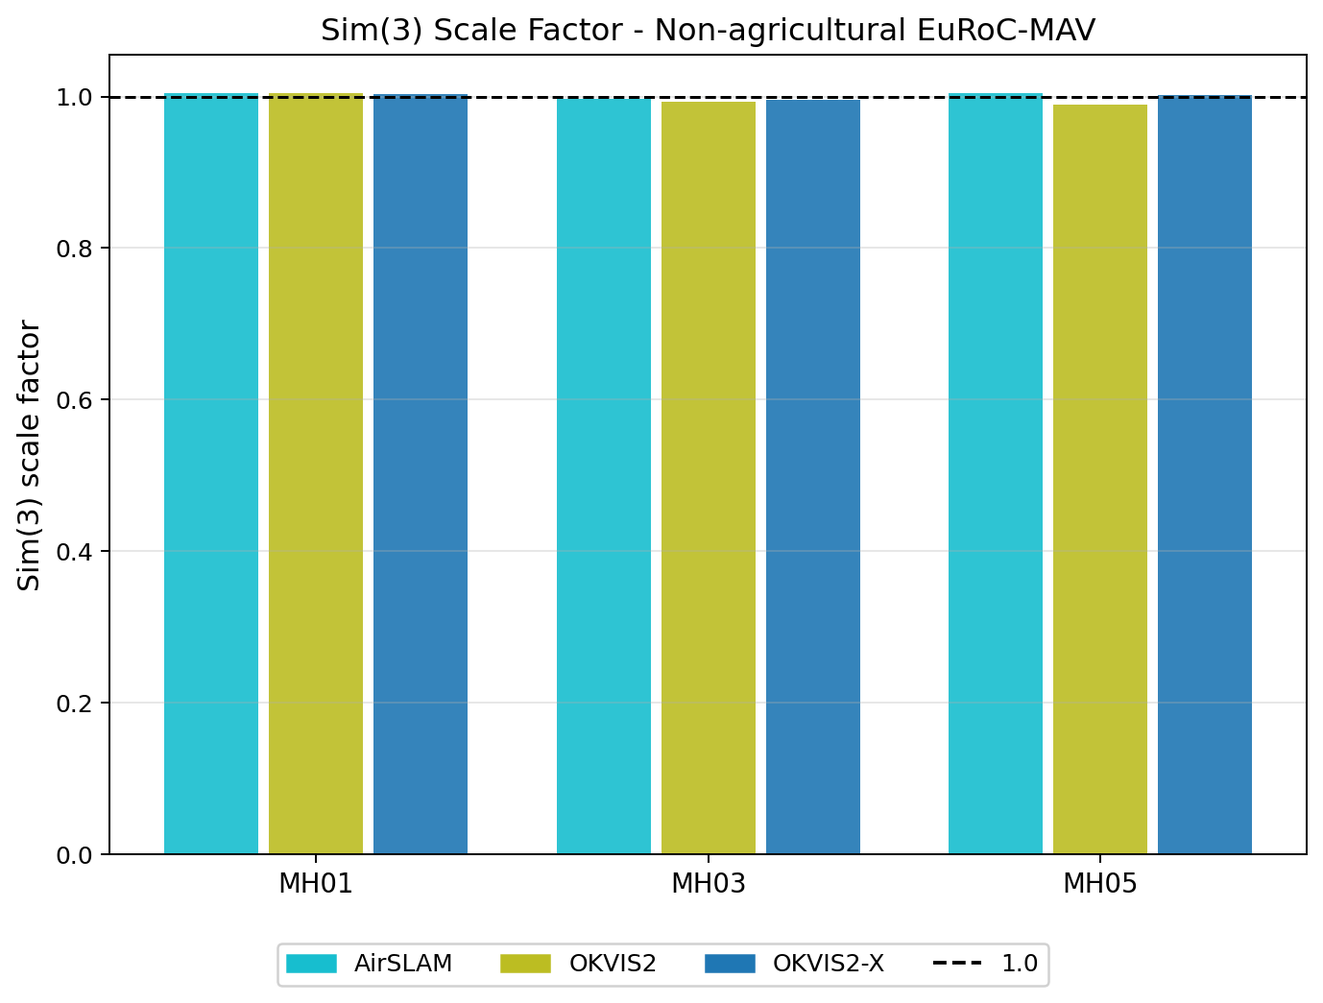
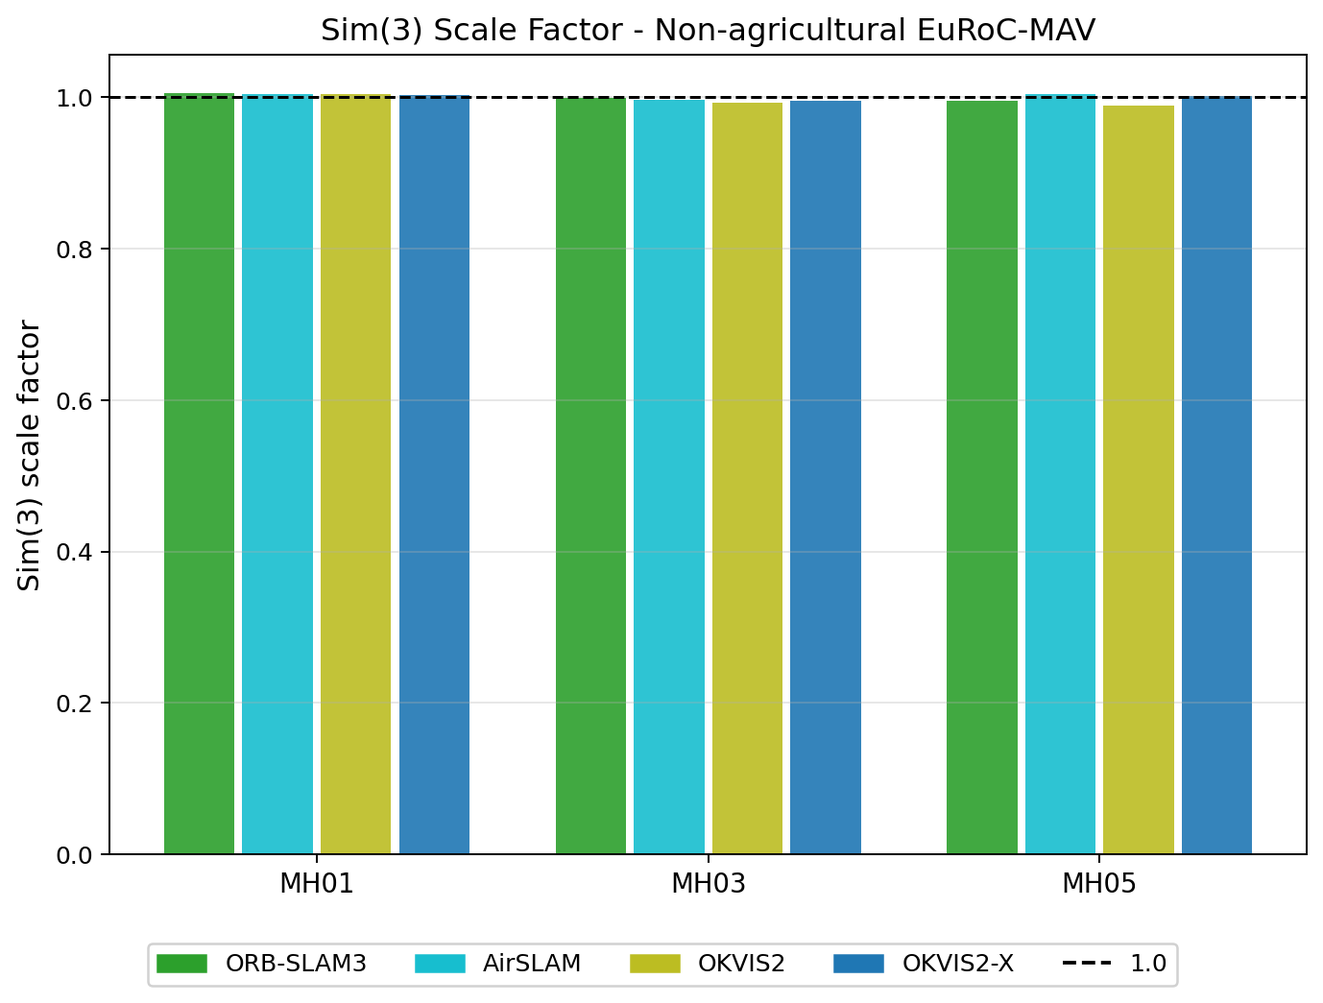
Update docs and report draft for ORB-SLAM3 VIO-LC results

diff --git a/docs/report-draft.md b/docs/report-draft.md
@@ -7,12 +7,10 @@
 ## Summary
 
 Since the last report (24.05.26: 5 algorithms, stereo-VO only, 3 datasets) the benchmark has grown to
-**15 algorithms, 5 operating modes (VO / VO-LC / VIO / VIO-LC / GNSS-VIO), 4 datasets — 210 evaluated
-configurations, 256 individual runs**, including our own RTK-referenced ZED2i field dataset. The headline
-outcome is not a ranking: on the EuRoC reference every method works (0.03–0.2 m), while **agriculture
-breaks three assumptions visual-inertial SLAM depends on** — feature distinctiveness, place uniqueness,
-and inertial excitation — and each algorithm's agricultural result is governed by which assumption its
-design leans on and how it fails when that assumption breaks.
+**15 algorithms, 5 operating modes (VO / VO-LC / VIO / VIO-LC / GNSS-VIO), 4 datasets — 213 evaluated
+configurations, 259 individual runs**, including our own RTK-referenced ZED2i field dataset. On the
+EuRoC reference every method performs as expected (0.03–0.2 m); the differences between algorithms
+appear only on the agricultural sequences.
 
 **Key findings**
 
@@ -71,9 +69,19 @@ installed but **hardware-blocked** (OOM on the 12 GB GPU).
 - One machine (i9-14900HX / RTX 4080 12 GB) unless noted; a subset of earlier runs came from a second
   machine (provenance stamped in each `run_eval.json` where available).
 
-**Caveat legend** (used in all tables): **‡** non-deterministic, N=3 median · **(NN %)** coverage when
-< 95 % (partial path) · **✗** scale collapse (Sim3 scale ≈ 0) · **†** preliminary (pre-extrinsic-fix)
-· **—** not run / failed · `(n)` accepted loop closures.
+**Table legend.** All table values are **ATE Sim3 RMSE in metres** (median where N=3); Sim3 alignment
+absorbs global scale error — see the scale-factor and SE3 columns in the full CSVs for scale-aware error.
+
+| Symbol | Meaning |
+|---|---|
+| **bold** | lowest ATE among **full-coverage stereo** methods in that column (partial-coverage cells and monocular DPVO excluded from winners) |
+| **‡** | non-deterministic cell — value is the **N=3 median**; run-to-run spread up to ~4× (§3.4) |
+| **(NN %)** | trajectory coverage when **< 95 %** — the method lost tracking and is scored only on the sub-path it completed; **not comparable** to full-coverage values |
+| **✗** | scale collapse (Sim3 scale ≈ 0; SE3 error diverges — the Sim3 value is shown) |
+| **†** | preliminary — predates the camera-IMU extrinsic fix; scheduled for re-run |
+| `(n)` | accepted loop closures (LC tables only); a high count on repetitive scenes signals perceptual aliasing, not benefit |
+| **—** | not run / failed (no usable trajectory) |
+| *(mono)* | monocular method — ATE is up-to-scale trajectory *shape*, not metric accuracy |
 
 ---
 
@@ -85,36 +93,49 @@ installed but **hardware-blocked** (OOM on the 12 GB GPU).
 
 ![Whole-benchmark VIO accuracy](../figures/fig_master_vio_heatmap.png)
 
-The two heatmaps carry the thesis: the EuRoC block is uniformly green for every method (the pipeline and
-configurations are sound), the agricultural block is where methods diverge by orders of magnitude, and
-the ZED2i VIO column shows the weak-excitation collapse (✗) that its VO column does not have.
+The EuRoC block is uniformly green for every method, which confirms the configurations and the
+evaluation pipeline are correct. The agricultural block is where the methods differ by orders of
+magnitude. In the VIO heatmap the ZED2i column shows the scale collapse (✗) that the same column in the
+VO heatmap does not have.
 
 ### 2.2 Visual Odometry (VO)
 
 | Algorithm | seq1 | seq5 | str02 | str03 | MH01 | MH03 | MH05 | zed2i |
 |---|---|---|---|---|---|---|---|---|
-| ORB-SLAM3 | 3.00 (58 %)‡ | 6.93 (52 %)‡ | 1.38 (47 %)‡ | 0.22‡ | **0.036** | 0.046 | **0.047** | **0.256** |
-| OV2SLAM | **7.24** | 8.05 | 5.76 | 0.35 | 0.058 | **0.042** | 0.099 | 0.348 |
-| DPVO (mono) | 4.93 | **3.92** | 14.59 | 1.82 | 0.122 | 0.134 | 0.121 | 1.431 |
-| Basalt | 14.09 | 15.05 | **2.10** | **0.28** | 0.057 | 0.137 | 0.182 | 0.446 |
-| OKVIS2 | 20.03 | 17.48 | 1.69 | 0.37 | 0.078 | 0.133 | 0.153 | 3.372 |
+| ORB-SLAM3 | 3.00 (58 %)‡ | 6.93 (52 %)‡ | 1.38 (47 %)‡ | **0.22**‡ | **0.036** | 0.046 | **0.047** | **0.256** |
+| OV2SLAM | **7.24** | **8.05** | 5.76 | 0.35 | 0.058 | **0.042** | 0.099 | 0.348 |
+| DPVO (mono) | 4.93 | 3.92 | 14.59 | 1.82 | 0.122 | 0.134 | 0.121 | 1.431 |
+| Basalt | 14.09 | 15.05 | 2.10 | 0.28 | 0.057 | 0.137 | 0.182 | 0.446 |
+| OKVIS2 | 20.03 | 17.48 | **1.69** | 0.37 | 0.078 | 0.133 | 0.153 | 3.372 |
 | OKVIS2-X | 18.02 | 14.91 | 1.97 | 0.68 | 0.132 | 0.169 | 0.153 | 1.436 |
 | MAC-VO | 13.52 | 19.38 | 10.01 | 0.51 | 0.198 | 0.340 | 0.470 | — |
 | AirSLAM | 9.89 | 12.11 | 19.77 | 3.74 | 0.111 | 0.143 | 0.297 | 3.866 |
 
-*ATE Sim3 (m); bold = best full-coverage result per column. ORB-SLAM3's low agricultural values are
-partial-path artifacts (§3.2) — among full-coverage methods OV2SLAM/DPVO lead outdoors, Basalt indoors.
+*ATE Sim3 (m); **bold = lowest ATE among full-coverage stereo methods.** Two categories are excluded
+from "best": partial-coverage cells (scored over a shorter sub-path) and monocular DPVO. DPVO has the
+lowest Sim3 values on Rosario (4.93 / 3.92 m), but Sim3 alignment rescales its trajectory using the
+ground truth first — its scale factor is 2.5 and its uncorrected SE3 error is 28.9 / 30.5 m against
+7.24 / 8.05 m for OV2SLAM, whose SE3 equals its Sim3 because it recovers metric scale itself.
 The ORB-SLAM3 "VO" baseline was re-run with `loopClosing: 0` after we found the default config silently
 left LC enabled (str03 went 0.10 → 0.22 m once genuinely LC-off).*
+
+**Observations.** ORB-SLAM3 loses tracking on the outdoor sequences and returns 47–58 % of the
+trajectory, so its agricultural values are computed over a shorter sub-path and are not comparable to
+the rest of the column. Among the methods that complete the sequences, OV2SLAM is the best outdoors
+(7.24 m on seq1, 8.05 m on seq5) and Basalt the best indoors (0.28 m on str03). Basalt drifts in scale
+on the long outdoor runs (scale 0.79–0.93). DPVO has lower Sim3 values on Rosario (3.92–4.93 m), but it
+is monocular and its trajectory is 2.5× the wrong size — after Sim3 removes that scale error using the
+ground truth. Its uncorrected SE3 error is 29–31 m, four times OV2SLAM's. MAC-VO is accurate but runs at
+1–2 fps; AirSLAM is the weakest outdoors.
 
 ### 2.3 VO + Loop Closure (VO-LC)
 
 | Algorithm (LC type) | seq1 | seq5 | str02 | str03 | MH01 | MH03 | MH05 | zed2i |
 |---|---|---|---|---|---|---|---|---|
-| ORB-SLAM3 (DBoW) | 1.52 (4) | 15.55 (0) | 0.72 (0, 53 %) | 0.10 (1) | 0.048 (0) | 0.043 (0) | 0.044 (1) | **0.202** (0) |
-| OKVIS2 (DBoW) | 18.87 (76) | 16.26 (0) | 1.39 (7) | 0.12 (54) | **0.021** (36) | **0.023** (44) | 0.057 (18) | 0.75 (1261, 93 %) |
-| OKVIS2-X (DBoW) | 19.40 (30) | 13.91 (1) | 1.22 (7) | 2.53 (7) | 0.018 (37) | 0.030 (37) | 0.061 (20) | 0.29 (357, 78 %) |
-| OV2SLAM (iBoW) | **3.86** | **2.25** | 23.50 | **0.10** | 0.048 | 0.047 | 0.063 | 0.314 |
+| ORB-SLAM3 (DBoW) | **1.52** (4) | 15.55 (0, 73 %) | 0.72 (0, 53 %) | 0.10 (1) | 0.048 (0) | 0.043 (0) | **0.044** (1) | **0.202** (0) |
+| OKVIS2 (DBoW) | 18.87 (76) | 16.26 (0) | 1.39 (7) | 0.12 (54) | 0.021 (36) | **0.023** (44) | 0.057 (18) | 0.75 (1261, 93 %) |
+| OKVIS2-X (DBoW) | 19.40 (30) | 13.91 (1) | **1.22** (7) | 2.53 (7) | **0.018** (37) | 0.030 (37) | 0.061 (20) | 0.29 (357, 78 %) |
+| OV2SLAM (iBoW) | 3.86 | **2.25** | 23.50 | **0.10** | 0.048 | 0.047 | 0.063 | 0.314 |
 | DPV-SLAM (proximity) | 9.32 | 6.48 | 22.00 | 8.83 | 0.047 | 0.042 | 0.058 | 2.364 |
 
 *`(n)` = accepted loop closures. DPV-SLAM's proximity closer and OV2SLAM's iBoW count are not surfaced by
@@ -122,12 +143,19 @@ their logs. High counts on repetitive scenes (OKVIS2 zed2i: 1261 ≈ 27/1000 fra
 look-alike matches) are a perceptual-aliasing signature, not a benefit measure — OKVIS2 fired 54 closures
 on str03 and improved, OKVIS2-X fired 7 and regressed +271 %.*
 
+**Observations.** The effect of loop closure depends on how candidates are matched. Proximity-based
+closure (DPV-SLAM) accepts false matches between identical rows and makes every agricultural sequence
+worse. Verified closure (iBoW, DBoW) usually helps — 18–73 % on EuRoC, and 3.00 → 1.52 m on Rosario
+seq1 where 4 closures were accepted on a genuine revisit — but it is not reliable: OV2SLAM degraded by
+308 % on str02 and OKVIS2-X by 271 % on str03, each from a single false match on a short, repetitive
+loop. Where no revisit exists (seq5) no closures fire and LC has no effect.
+
 ### 2.4 Visual-Inertial Odometry (VIO)
 
 | Algorithm | seq1 | seq5 | str02 | str03 | MH01 | MH03 | MH05 | zed2i |
 |---|---|---|---|---|---|---|---|---|
 | ORB-SLAM3 | 4.70 | **2.29** | **1.48** | 0.40 | **0.025** | **0.030** | 0.048 | — ✗ failed |
-| Basalt | **3.00** | 4.74 | 2.49 | **0.19** | 0.035 | 0.046 | 0.111 | 9.14 |
+| Basalt | 3.00 | 4.74 | 2.49 | **0.19** | 0.035 | 0.046 | **0.111** | 9.14 |
 | OKVIS2 | 18.89 | 20.29 | 2.15 | 0.40 | 0.054 | 0.098 | 0.151 | 17.67 (65 %) ✗ |
 | OKVIS2-X | 19.33 | 20.40 | 2.13 | 0.34 | 0.046 | 0.072 | 0.144 | 18.32 (60 %) ✗ |
 | OpenVINS | **2.32** | 10.76 | 2.24 | 0.43 | 0.058 | 0.126 | 0.205 | 5.33 (15 %) ✗ |
@@ -137,28 +165,47 @@ on str03 and improved, OKVIS2-X fired 7 and regressed +271 %.*
 *On ZED2i every VIO lands ≥ 3.7 m (the tightly-coupled filters collapse, ✗) against VO at ≤ 0.45 m; on
 Rosario the picture inverts — see §3.1.*
 
+**Observations.** The IMU helps on Rosario and HortiMulti and hurts on our ZED2i sequence. On ZED2i all
+VIO configurations land at 3.7–18 m against 0.26–0.45 m for stereo VO, and OKVIS2, OKVIS2-X and
+OpenVINS scale-collapse (Sim3 scale ≈ 0); ORB-SLAM3 fails to produce a trajectory at all. The likely
+cause is insufficient inertial excitation — the robot drives slowly and almost straight. On Rosario the
+same IMU raises ORB-SLAM3's coverage from 43 % to 99 % and corrects Basalt's scale drift
+(14 m at scale 0.80 in VO → 3.00 m at scale 1.02 in VIO). OKVIS2 and OKVIS2-X remain poor on Rosario
+(18–20 m) in every mode, and OKVIS2-X runs about twice as fast as OKVIS2 for similar accuracy.
+
 ### 2.5 VIO + Loop Closure (VIO-LC)
 
 | Algorithm | seq1 | seq5 | str02 | str03 | MH01 | MH03 | MH05 |
 |---|---|---|---|---|---|---|---|
-| ORB-SLAM3 | **1.08** (127) | **2.45** (0) | **0.88** (1) | 0.19 (1) | — | — | — |
+| ORB-SLAM3 | **1.08** (127) | **2.45** (0) | **0.88** (1) | 0.19 (6) | 0.024 (0) | 0.028 (0) | 0.062 (0) |
 | OKVIS2 | 18.32 | 21.25 | 1.33 (4) | **0.10** (64) | 0.020 (34) | 0.024 (42) | 0.049 (20) |
 | OKVIS2-X | 17.95 (27) | 20.05 (1) | 1.78 (8) | 0.11 (16) | **0.014** (29) | 0.028 (39) | **0.045** (14) |
 | AirSLAM | 15.87 | 24.26 | 5.36 | 0.62 | 0.040 | 0.041 | 0.050 |
 
 *No ZED2i column: weak-excitation VIO is unusable there. AirSLAM's LC runs in its offline map-refinement
 step (count not surfaced). **ORB-SLAM3 VIO-LC is the most accurate configuration on Rosario/HortiMulti**
-(seq1 1.08 m at 99 % coverage). Note ORB-SLAM3's EuRoC VIO-LC configs do not exist yet.*
+(seq1 1.08 m at 99 % coverage). On EuRoC its VIO-LC fired **zero** closures — with the IMU constraining
+drift, place recognition never triggers, so VIO-LC ≈ VIO there (loop closure is redundant, not harmful).
+Caution on the
+very low str03 values: Sim3 alignment absorbs the ~3 % scale error on this short looped sequence —
+OKVIS2's 0.10 m Sim3 corresponds to **0.60 m SE3**; the LC-on peers cluster at Sim3 0.10–0.19 /
+SE3 0.58–0.78 m.*
+
+**Observations.** This is the most accurate configuration on the agricultural sequences: ORB-SLAM3
+reaches 1.08 m on seq1 (127 closures, 99 % coverage) and 0.88 m on str02, i.e. the IMU restores the
+coverage that pure VO loses and loop closure then removes most of the remaining error. On EuRoC the
+same configuration fires zero closures on all three sequences — with the IMU bounding drift, place
+recognition never triggers — so VIO-LC and VIO are equivalent there.
 
 ### 2.6 GNSS-VIO
 
 | Algorithm | seq1 | seq5 (PPK) | str02† | str03† |
 |---|---|---|---|---|
 | VINS-Fusion+GPS | **1.19** | **0.91** | 4.90 | 2.40 |
-| RTAB-Map+GPS | 2.14 | 1.64 (38 %) | 6.30 | 1.76 |
+| RTAB-Map+GPS | 2.14 | 4.90 (38 %) | 6.30 | 1.76 |
 | CIFASIS GNSS-SI | 3.58 | 2.06 | 7.26 | 1.50 |
 | OKVIS2-X (tight GNSS) | 8.79 | 8.15 | 2.38 | **0.28** |
-| OpenVINS+GPS | 2.39 | 4.66 | 30.86† | 16.50† |
+| OpenVINS+GPS | 2.39 | 4.18 | 30.86† | 16.50† |
 
 *GPS-bearing sequences only (EuRoC has no GPS). seq5 uses PPK-grade GPS. † OpenVINS+GPS HortiMulti rows
 predate the camera-IMU extrinsic fix and are preliminary; its trajectories also carry a corrupt timestamp
@@ -166,11 +213,17 @@ that invalidates the coverage metric (ATE unaffected). PPK vs conventional study
 **vertical** RMSE by 23–86 % for loosely-coupled fusion; HortiMulti's consumer GPS (σ_z ≈ 7 m) is a
 hardware floor.*
 
+**Observations.** Loosely-coupled fusion handles GPS best (VINS-Fusion, 1.19 m on seq1 and 0.91 m on
+seq5). Tightly-coupled fusion is not automatically better: OKVIS2-X is the weakest outdoors (8–9 m) but
+the best on str03 (0.28 m). PPK-grade GPS improves vertical accuracy by 23–86 % for the loosely-coupled
+estimators; HortiMulti only has consumer GPS (σ_z ≈ 7 m), which is a hardware limit rather than an
+algorithmic one.
+
 ---
 
 ## 3. Findings
 
-### 3.1 The IMU's value is excitation-dependent
+### 3.1 IMU: helps on Rosario, harmful on ZED2i
 
 ![IMU excitation](../figures/fig_imu_excitation.png)
 
@@ -178,10 +231,10 @@ Under the near-constant-velocity ZED2i motion, scale and IMU biases are unobserv
 and OpenVINS scale-collapse (Sim3 scale → 0, SE3 error diverging to 10⁵–10⁶ m) and ORB-SLAM3's VIO fails
 outright, while stereo VO keeps metric scale at 0.26–0.45 m. On Rosario, with genuine turning, the same
 inertial constraint corrects Basalt's scale drift (14 m/0.80 → 3 m/1.02) and rescues ORB-SLAM3 (below).
-**An IMU on a field robot pays off only if the platform moves enough to excite it; on slow smooth
-traversals it is actively harmful.**
+The practical conclusion is that the IMU is only useful when the platform moves enough to excite it;
+on slow, straight traversals it degrades the result.
 
-### 3.2 Classical feature tracking hard-fails on crops — and ATE hides it
+### 3.2 ORB-SLAM3 tracking loss and partial coverage
 
 ![ORB-SLAM3 mode progression](../figures/fig_orb_progression.png)
 
@@ -193,7 +246,7 @@ complete 100 % and drift instead of quitting. The progression figure shows the f
 coverage (58 → 99 %), then loop closure cuts the error (1.08 m)** — making ORB-SLAM3 VIO-LC the best
 configuration on the benchmark's outdoor sequences. Coverage must accompany ATE in any comparison.
 
-### 3.3 Loop closure is mechanism-dependent — and no mechanism is immune
+### 3.3 Loop closure by matching method
 
 ![Loop-closure mechanism heatmap](../figures/fig_lc_mechanism.png)
 
@@ -204,7 +257,7 @@ iBoW/DBoW closure helps reliably on distinctive scenes (EuRoC −18 to −73 %) 
 str03 (+271 %) — single false matches that slipped past verification on short, aliased loops. Better
 verification lowers the blow-up frequency; it does not eliminate it.
 
-### 3.4 Reproducibility: one run is not enough on agricultural data
+### 3.4 Run-to-run reproducibility
 
 ![Run-to-run determinism](../figures/fig_determinism.png)
 
@@ -217,25 +270,47 @@ including all real-time/ROS-replay estimators, two of which (Voxel-SVIO, RTAB-Ma
 
 ---
 
-## 4. Conclusions
+## 4. Observations
 
-Across the benchmark, every algorithm attains low ATE on the EuRoC reference, confirming the
-implementations are sound and that agricultural degradation is environment-driven. The agricultural
-spread is not a quality ranking but a map of robustness to three broken assumptions:
+On EuRoC every algorithm lands between 0.03 and 0.2 m, so the configurations and the evaluation
+pipeline work as expected. The differences appear only on agricultural data.
 
-| Assumption broken by agriculture | Who breaks | Who survives |
-|---|---|---|
-| **Distinctive features** (low-texture rows) | ORB-SLAM3 → tracking loss + map fragmentation | optical-flow, learned, sliding-window → graceful drift |
-| **Unique places** (identical rows) | proximity LC always; iBoW/DBoW occasionally (single false loops) | verified LC *on true revisits*; LC-off |
-| **Inertial excitation** (slow smooth motion) | tightly-coupled VIO on ZED2i → scale collapse | stereo VO; or VIO where excitation exists |
+**ORB-SLAM3** is the most accurate system on the agricultural sequences, but only when it has the IMU.
+In pure VO it loses tracking on Rosario and HortiMulti and produces 47–58 % of the trajectory; its low
+ATE in those cells is computed over that shorter sub-path and is not comparable to the others. Adding
+the IMU raises coverage to 99 %, and adding loop closure on top gives the best results in the benchmark
+(seq1 1.08 m, str02 0.88 m). It is also the only algorithm that varies significantly between identical
+runs on agricultural data (up to ~4×), so those cells are reported as a median of 3 runs.
 
-Practical guidance for field robots: **choose by which assumption your platform violates.** Low texture →
-avoid pure descriptor matching or add an IMU to bridge tracking gaps. Repetitive rows → disable loop
-closure or use geometrically-verified closure and accept residual blow-up risk. Slow, smooth motion → do
-not trust a tightly-coupled IMU; use stereo VO. Where excitation and true revisits both exist (Rosario),
-the full stereo-inertial-LC stack (ORB-SLAM3 VIO-LC, 1.08 m) is the strongest configuration. Conventional
-benchmarks obscure all of this by satisfying every assumption at once — which is precisely why an
-agricultural benchmark, and the weak-excitation ZED2i sequence in particular, is needed.
+**OV2SLAM** is the strongest metric pure-VO method on the long outdoor sequences with full coverage
+(7.24 m on seq1, 8.05 m on seq5). **Basalt** is fast and the best indoor VO (0.28 m on str03) but drifts in scale on
+long outdoor runs (scale 0.79–0.93, 14–15 m on Rosario); the IMU corrects this (3.00 m on seq1 VIO).
+**OKVIS2 and OKVIS2-X** are good on EuRoC and HortiMulti but poor on Rosario (18–20 m); OKVIS2-X runs
+roughly twice as fast as OKVIS2 for similar accuracy. **DPVO** gives the lowest outdoor error on Rosario
+(3.92–4.93 m) but is monocular, so those values are up-to-scale and not metric. **MAC-VO** is accurate but
+runs at 1–2 fps. **AirSLAM** is the weakest on the outdoor sequences and the slowest of the VIO methods
+(1.4–3.6 fps).
+
+- **The IMU helps on Rosario/HortiMulti and hurts on our ZED2i sequence.** On ZED2i all VIO
+  configurations land at 3.7–18 m against 0.26–0.45 m for stereo VO, and OKVIS2, OKVIS2-X and OpenVINS
+  scale-collapse (Sim3 scale ≈ 0). The likely cause is insufficient inertial excitation — the robot
+  drives slowly and almost straight. On Rosario, where there is real turning, the IMU instead fixes
+  tracking loss and scale drift.
+- **Loop closure depends on the matching method.** Proximity-based closure (DPV-SLAM) makes every
+  agricultural sequence worse. Verified closure (iBoW, DBoW) usually helps — on EuRoC by 18–73 %, and on
+  Rosario seq1 by 3.00 → 1.52 m with 4 closures — but is not reliable: OV2SLAM degraded by 308 % on
+  str02 and OKVIS2-X by 271 % on str03, in both cases from a single false match.
+- **ATE has to be read together with coverage.** ORB-SLAM3 splits into several internal maps when it
+  loses tracking and only exports the largest one, so a partial run reports a lower ATE than a complete
+  one.
+- **Sim3 alignment hides scale error.** OKVIS2 on str03 VIO-LC is 0.10 m in Sim3 but 0.60 m in SE3.
+
+**Caveats.** Most cells are single runs; the real-time estimators (OpenVINS, Voxel-SVIO, RTAB-Map) are
+non-deterministic, so single values are indicative only. MASt3R-SLAM and MegaSaM could not be run on a
+12 GB GPU.
+
+**Next:** N=3 for the VIO matrix, re-run OpenVINS+GPS on HortiMulti with the corrected extrinsics, and
+finish the two remaining ZED2i cells.
 
 ## 5. Limitations / open items
 
@@ -249,7 +324,7 @@ agricultural benchmark, and the weak-excitation ZED2i sequence in particular, is
 
 ## 6. Appendix pointers
 
-- Full per-mode CSVs: `benchmark-{vo,vo-lc,vio,vio-lc,gnss-vio}.csv` (110/40/55/25/22 rows).
+- Full per-mode CSVs: `benchmark-{vo,vo-lc,vio,vio-lc,gnss-vio}.csv` (110/40/55/28/22 rows).
 - Per-mode aggregate plots (ATE / scale / FPS bars, ATE-vs-FPS Pareto): `results-<mode>/*.png`.
 - Per-sequence multi-algorithm trajectory overlays: `results-<mode>/<dataset>/<seq>/plots/`.
 - Detailed findings log and per-dataset notes: `PROGRESS.md` (findings 1–15); open work: `TODO.md`.

diff --git a/PROGRESS.md b/PROGRESS.md
@@ -3,7 +3,9 @@
 > Updated: 2026-08-04 - **VO: 110 rows** (ORB-SLAM3 native; its agri "VO" baseline re-run truly LC-off,
 > `loopClosing:0` - str03 0.104→0.217 confirms it was LC-assisted; agri VO is partial-coverage 42-58%,
 > finding 14). **VO-LC: 40 rows** (DPV-SLAM, OKVIS2, OKVIS2-X, ORB-SLAM3, OV2SLAM). **VIO: 55 rows**
-> (49-row core + 6 ZED2i). **VIO-LC: 25 rows** (OKVIS2, OKVIS2-X, AirSLAM on 7 core; ORB-SLAM3 seq5 +
+> (49-row core + 6 ZED2i). **VIO-LC: 28 rows** (OKVIS2, OKVIS2-X, AirSLAM and ORB-SLAM3 on all 7 core;
+> ORB-SLAM3 VIO-LC is the best config on Rosario - seq1 1.08 m, 127 loops - and fires ZERO loops on
+> EuRoC, where the IMU makes LC redundant; seq5 +
 > agri - seq1 1.08 m is the best config on Rosario). **GNSS-VIO: 20 headline rows** (+2 PPK-study
 > variants; openvins_gps coverage metric is corrupted by bad timestamps - ATE valid, coverage unusable).
 > Key findings: 11 (agri ORB non-determinism), 12 (loop-closure metric was a parser bug),
@@ -432,15 +434,21 @@ See finding 10 for the DPVO-vs-DPV-SLAM loop-closure comparison, and finding 12 
 
 ## VIO-LC - Visual-Inertial + Loop Closure
 
-`benchmark-vio-lc.csv` has 19 rows (all N=1, stereo + IMU + LC): OKVIS2 and OKVIS2-X across all 7
-core sequences, AirSLAM on the 4 agricultural sequences, plus the ORB-SLAM3 seq5 reference. There is
+`benchmark-vio-lc.csv` has 28 rows (all N=1, stereo + IMU + LC): OKVIS2, OKVIS2-X, AirSLAM and
+ORB-SLAM3 across all 7 core sequences. There is
 **no zed2i column** - OKVIS2 has no zed2i `_vio_lc` config, AirSLAM has no zed2i `_vio_slam` config,
 and OKVIS2-X zed2i VIO-LC was cut before running (the ~5-6 h long pole, same stall as its VO-LC cell).
 Basalt and OpenVINS have no loop-closure mode.
 
 | Algorithm | Dataset | Seq | ATE Sim3 | ATE SE3 | Scale | RPE [m/m] | FPS | LC | N |
 |---|---|---|---|---|---|---|---|---|---|
+| ORB-SLAM3 | rosariov2 | seq1 | **1.08 m** | 1.10 m | 1.004 | 0.354 | 12.49 | 127 | 1 |
 | ORB-SLAM3 | rosariov2 | seq5 | **2.45 m** | 2.71 m | 1.023 | 0.0292 | 12.00 | 0 | 1 |
+| ORB-SLAM3 | hortimulti | str02 | **0.88 m** | 2.19 m | 1.042 | 0.090 | 9.59 | 1 | 1 |
+| ORB-SLAM3 | hortimulti | str03 | 0.19 m | 0.69 m | 1.037 | 0.026 | 9.11 | 6 | 1 |
+| ORB-SLAM3 | euroc_mav | MH_01 | 0.024 m | 0.036 m | 1.006 | 0.009 | 18.29 | 0 | 1 |
+| ORB-SLAM3 | euroc_mav | MH_03 | 0.028 m | 0.028 m | 1.000 | 0.013 | 18.24 | 0 | 1 |
+| ORB-SLAM3 | euroc_mav | MH_05 | 0.062 m | 0.068 m | 0.996 | 0.017 | 17.62 | 0 | 1 |
 | OKVIS2 | rosariov2 | seq1 | 18.32 m | 18.77 m | 0.915 | 0.115 | 4.72 | 6337† | 1 |
 | OKVIS2 | rosariov2 | seq5 | 21.25 m | 21.71 m | 0.913 | 0.118 | 4.40 | 979† | 1 |
 | OKVIS2 | hortimulti | str02 | 1.333 m | 1.976 m | 1.030 | 0.093 | 8.52 | 4 | 1 |
@@ -473,7 +481,16 @@ All other OKVIS loop counts here use the corrected metric (finding 12).
 
 ### Remarks: VIO-LC
 
-- **Loop closure provides no benefit on perceptually aliased crop-row sequences.** ORB-SLAM3 VIO-LC on rosariov2 seq5: 0 closures accepted, no ATE improvement (2.45 m vs 2.29 m VIO). Identical row appearance prevents bag-of-words place recognition. OKVIS2 accepts hundreds-to-thousands of closures on Rosario yet still lands ~18-21 m - the closures do not fix the drift.
+- **LC benefit on crops depends on a true revisit** (refines the earlier "no benefit" claim). ORB-SLAM3
+  VIO-LC on seq5: 0 closures, no gain (2.45 vs 2.29 m VIO) - identical rows defeat place recognition.
+  But on **seq1, which genuinely returns to start, it fires 127 closures and drops 4.70 -> 1.08 m -
+  the best result on the benchmark for that sequence** (str02: 1.48 -> 0.88 m). OKVIS2 accepts many
+  closures on Rosario yet stays ~18-21 m - its closures do not fix the drift.
+- **ORB-SLAM3 full mode progression (2026-08-04):** VO fragments (58% coverage) -> VIO completes (99%)
+  -> VIO-LC corrects (1.08 m). On **EuRoC its VIO-LC fires ZERO closures on all three sequences** -
+  with the IMU bounding drift, place recognition never triggers, so VIO-LC ≈ VIO (0.024/0.028/0.062 vs
+  0.025/0.030/0.048 m; run noise, LC redundant not harmful). Config `euroc_mav_stereo_inertial_lc.yaml`
+  added (VIO config + `loopClosing: 1` only).
 - **OKVIS2 VIO-LC ≈ VO-LC on Rosario** (seq1 18.32 vs 18.87 m; seq5 21.25 vs 16.26 m) - adding the IMU on top of LC changes little on these weak-excitation sequences, consistent with the VIO≫VO agricultural pattern.
 - **OKVIS2-X does loop-close** (27 on seq1, corrected metric - finding 12; the earlier "0" was a parser bug), at counts comparable to OKVIS2, yet tracks ~1.5-2x faster (e.g. seq1 7.5 vs 4.7 fps).
 - **AirSLAM is the slowest** (1.4-3.6 fps on agri) and weakest on Rosario (seq5 24.3 m), but competitive on the easier HortiMulti str03 (0.62 m). Launch-file fix (`vio_euroc.launch` + `map_refinement`, not the non-existent `vio_slam_euroc.launch`) landed in `run_airslam.sh` 2026-07-30.
